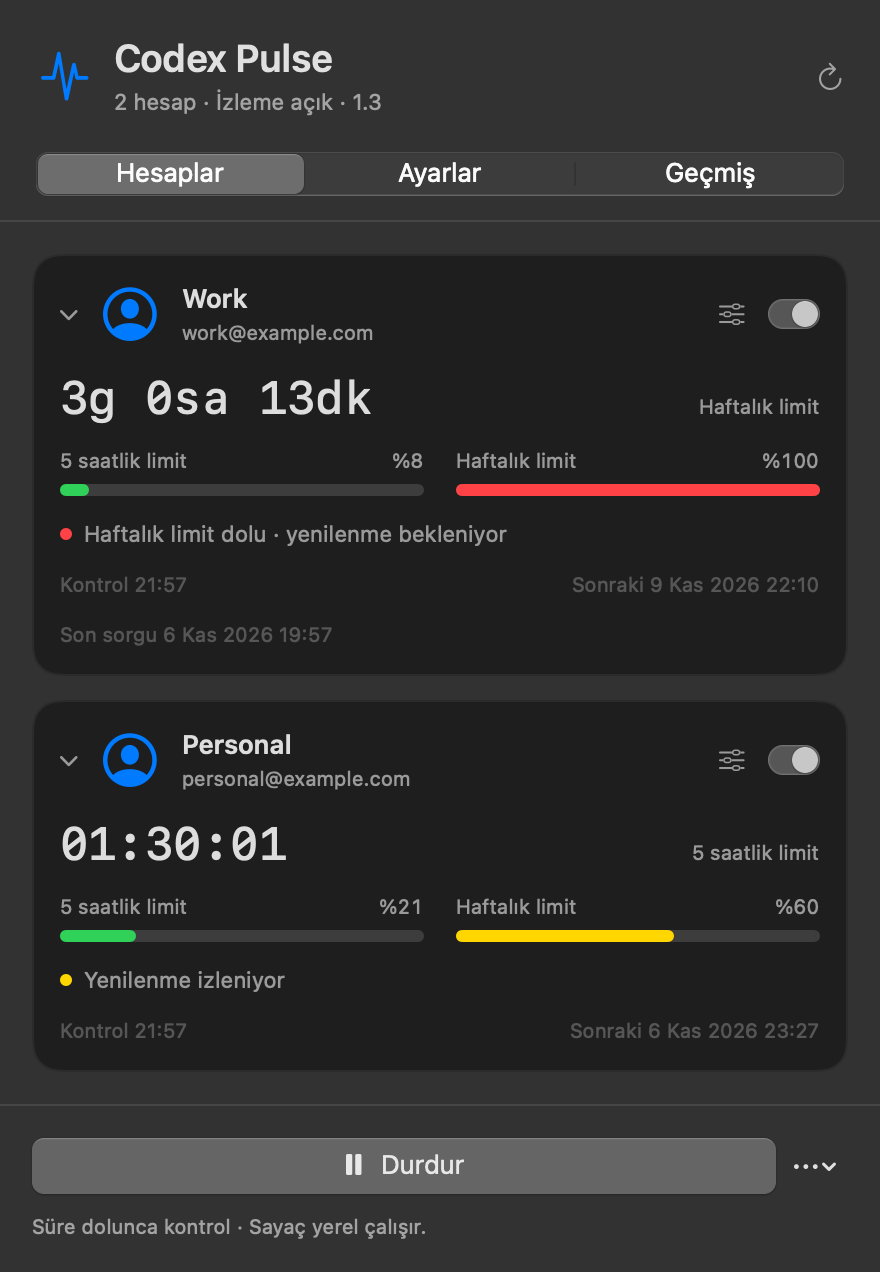
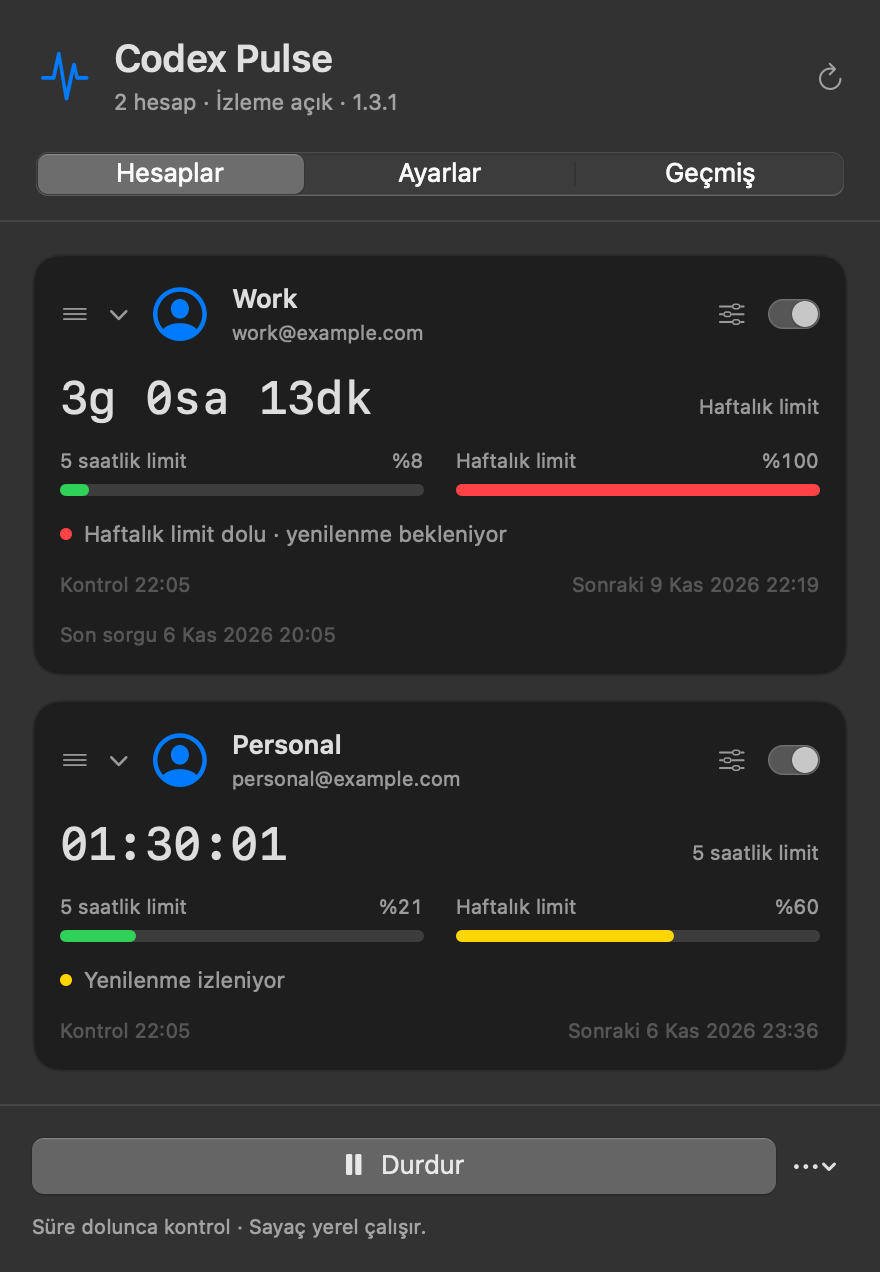
Add persistent drag-and-drop account ordering in 1.3.1

diff --git a/App.swift b/App.swift
@@ -1,5 +1,6 @@
 import AppKit
 import SwiftUI
+import UniformTypeIdentifiers
 import ServiceManagement
 import UserNotifications
 
@@ -338,6 +339,12 @@ struct AccountCard: View {
     var body: some View {
         VStack(alignment: .leading, spacing: 12) {
             HStack(spacing: 10) {
+                Image(systemName: "line.3.horizontal")
+                    .font(.system(size: 12)).foregroundStyle(.secondary)
+                    .padding(.vertical, 6).contentShape(Rectangle())
+                    .help(model.tr("Sıralamak için sürükleyin"))
+                    .onDrag { NSItemProvider(object: account.id as NSString) }
+
                 Button(action: toggleExpanded) {
                     HStack(spacing: 10) {
                         Image(systemName: "chevron.right")
@@ -687,7 +694,7 @@ struct Panel: View {
                     Image(systemName: "waveform.path.ecg").font(.system(size: 24, weight: .medium)).foregroundStyle(Color.accentColor)
                     VStack(alignment: .leading, spacing: 3) {
                         Text("Codex Pulse").font(.system(size: 19, weight: .semibold))
-                        Text(model.fmt(model.snapshot.accounts.count == 1 ? "1 hesap · {status} · {version}" : "{count} hesap · {status} · {version}", ["count": String(model.snapshot.accounts.count), "status": model.tr(model.snapshot.running ? "İzleme açık" : "Duraklatıldı"), "version": "1.3"]))
+                        Text(model.fmt(model.snapshot.accounts.count == 1 ? "1 hesap · {status} · {version}" : "{count} hesap · {status} · {version}", ["count": String(model.snapshot.accounts.count), "status": model.tr(model.snapshot.running ? "İzleme açık" : "Duraklatıldı"), "version": "1.3.1"]))
                             .font(.system(size: 11)).foregroundStyle(.secondary)
                     }
                     Spacer()
@@ -723,6 +730,19 @@ struct Panel: View {
                         ForEach(model.snapshot.accounts) { account in
                             AccountCard(model: model, account: account, expanded: expandedAccounts.contains(account.id),
                                         toggleExpanded: { toggleAccount(account.id) }, edit: { editingAccount = account })
+                                .onDrop(of: [UTType.text], isTargeted: nil) { providers in
+                                    guard let provider = providers.first,
+                                          provider.canLoadObject(ofClass: NSString.self) else { return false }
+                                    _ = provider.loadObject(ofClass: NSString.self) { value, _ in
+                                        guard let source = value as? String else { return }
+                                        DispatchQueue.main.async {
+                                            guard source != account.id,
+                                                  model.snapshot.accounts.contains(where: { $0.id == source }) else { return }
+                                            model.send("moveAccount", extra: ["id": source, "targetId": account.id])
+                                        }
+                                    }
+                                    return true
+                                }
                                 .trackPanelHeight("account-" + account.id)
                         }
                     } else if tab == 1 { GlobalSettingsView(model: model) }

diff --git a/backend.py b/backend.py
@@ -320,7 +320,7 @@ def read_account(codex, home, children, on_account=None, guard=nullcontext):
 
         try:
             request(1, 'initialize', {'clientInfo': {'name': 'codex_pulse', 'title': APP_NAME,
-                                                    'version': '1.3.0'}, 'capabilities': None})
+                                                    'version': '1.3.1'}, 'capabilities': None})
             with guard():
                 process.stdin.write('{"method":"initialized"}\n')
                 process.stdin.flush()
@@ -371,11 +371,13 @@ class Watcher:
         self.codex = codex_executable()
         self.path = state_dir / 'state.json'
         self.state = {'version': 2, 'settings': dict(DEFAULT_SETTINGS), 'profiles': {},
-                      'journal': {}, 'history': []}
+                      'journal': {}, 'history': [], 'accountOrder': []}
         if self.path.exists():
             loaded = json.loads(self.path.read_text())
             if not isinstance(loaded, dict) or not isinstance(loaded.get('journal', {}), dict):
                 raise ValueError('Yerel ayar dosyası geçersiz; işlem kaydı korunarak kontrol edilmeli.')
+            order = loaded.get('accountOrder', [])
+            self.state['accountOrder'] = list(dict.fromkeys(k for k in order if isinstance(k, str))) if isinstance(order, list) else []
             self.state['journal'] = loaded.get('journal', {})
             self.state['history'] = loaded.get('history', [])[-MAX_HISTORY:]
             # v1 boolean account switches and its custom interval are preserved.
@@ -437,10 +439,16 @@ class Watcher:
         self.accounts = {k: v for k, v in self.accounts.items() if k in valid}
         self.cached = {k: v for k, v in self.cached.items() if k in valid}
 
+    def ordered_ids(self):
+        saved = self.state['accountOrder']
+        return [key for key in saved if key in self.accounts] + [
+            key for key in self.accounts if key not in saved]
+
     def publish(self, notification=None):
         with self.lock:
             rows = []
-            for key, account in self.accounts.items():
+            for key in self.ordered_ids():
+                account = self.accounts[key]
                 pref = self.preference(key)
                 row = dict(account)
                 row['alias'] = pref.get('alias', '')
@@ -556,6 +564,16 @@ class Watcher:
                         account['error'] = None
                         account['status'] = 'İzleme kapalı'
                     self.event('settings', 'Hesap izlemeye açıldı' if pref['enabled'] else 'Hesap izleme kapatıldı', key)
+                elif action == 'moveAccount':
+                    source, target = command.get('id'), command.get('targetId')
+                    if not isinstance(source, str) or not isinstance(target, str) or source not in self.accounts or target not in self.accounts:
+                        raise ValueError('Geçersiz hesap seçimi.')
+                    order = self.ordered_ids()
+                    destination = order.index(target)
+                    order.remove(source)
+                    order.insert(destination, source)
+                    self.state['accountOrder'] = order
+                    self.save()
                 elif action == 'clearHistory':
                     self.state['history'] = []  # Never clear the at-most-once journal.
                     self.save()

diff --git a/tests/test_backend.py b/tests/test_backend.py
@@ -236,6 +236,33 @@ class AdvancedFeatureTests(unittest.TestCase):
             watcher = pulse.Watcher(profiles, state, events.append, force_paused=force_paused)
         return watcher, events
 
+    def test_reorder_persists_in_both_directions_and_appends_new_accounts(self):
+        with tempfile.TemporaryDirectory() as folder:
+            watcher, events = self.make_watcher(folder)
+            for name in ('account-second', 'account-third'):
+                home = watcher.root / name
+                home.mkdir()
+                (home / 'auth.json').write_text('{}')
+            watcher.rescan()
+            with patch.object(pulse, 'read_account') as read, patch.object(pulse, 'send_prompt') as send:
+                watcher.command({'action': 'moveAccount', 'id': 'account-test', 'targetId': 'account-third'})
+                self.assertEqual([r['id'] for r in events[-1]['accounts']], ['account-second', 'account-third', 'account-test'])
+                watcher.command({'action': 'moveAccount', 'id': 'account-test', 'targetId': 'account-second'})
+                self.assertEqual(watcher.ordered_ids(), ['account-test', 'account-second', 'account-third'])
+                read.assert_not_called()
+                send.assert_not_called()
+            reopened, _ = self.make_watcher(folder)
+            self.assertEqual(reopened.ordered_ids(), watcher.ordered_ids())
+            home = watcher.root / 'account-new'
+            home.mkdir()
+            (home / 'auth.json').write_text('{}')
+            reopened.rescan()
+            self.assertEqual(reopened.ordered_ids()[-1], 'account-new')
+            before = reopened.ordered_ids()
+            reopened.command({'action': 'moveAccount', 'id': 'missing', 'targetId': 'account-test'})
+            self.assertIsNotNone(reopened.command_error)
+            self.assertEqual(reopened.ordered_ids(), before)
+
     def test_default_home_is_discovered_and_used_for_status(self):
         with tempfile.TemporaryDirectory() as folder:
             root = Path(folder)

diff --git a/KULLANIM.md b/KULLANIM.md
@@ -1,5 +1,7 @@
 # Codex Pulse 1.3
 
+Hesap başlığının solundaki tutamacı başka bir hesabın üzerine sürükleyerek sırasını değiştirin. Sıralama bu Mac’te kaydedilir.
+
 `~/.codex` altındaki varsayılan oturum da listelenir. Haftalık kullanım %100 olduğunda sayaçlar haftalık yenilenmeyi gösterir. Kullanım %0–49 yeşil, %50–99 sarı, %100 ve üzerinde kırmızıdır.
 
 Mac menü çubuğunda Monocode Codex hesaplarını ayrı ayrı gösteren yerel uygulama.
@@ -110,7 +112,7 @@ Monocode’un seçili hesabını değiştirmez.
 
 ## Arkadaşına gönderme
 
-Paylaşım dosyası: **Codex-Pulse-1.3.0-universal.dmg**.
+Paylaşım dosyası: **Codex-Pulse-1.3.1-universal.dmg**.
 İçindeki `Codex Pulse.app` uygulamasını `Applications` klasörüne sürükleyin.
 Yönetici yetkisi olmadan kişisel `~/Applications` klasörüne de kopyalanabilir.
 DMG açıkken çalıştırmak yerine önce uygulamayı kopyalayın.
@@ -136,7 +138,7 @@ Uygulama yerel/ad-hoc imzalıdır; Apple Developer ID veya noter onayı yoktur.
 DMG yapmak bunu değiştirmez; başka Mac’te macOS açılışı engelleyebilir.
 Dağıtım için noter onayı ayrıca Apple geliştirici hesabı ve imzalama gerektirir.
 
-**Codex-Pulse-1.3.0-source.zip** kaynak kodunun bağımsız kopyasıdır. İstediğiniz klasöre
+**Codex-Pulse-1.3.1-source.zip** kaynak kodunun bağımsız kopyasıdır. İstediğiniz klasöre
 çıkarıp geliştirebilirsiniz; e-ticaret projesinin Node/Prisma dosyalarına ihtiyaç duymaz.
 
 ## Geliştirme ve doğrulama

diff --git a/README.md b/README.md
@@ -1,5 +1,7 @@
 # Codex Pulse
 
+Drag the handle on an account onto another account to reorder it. Your order is saved on this Mac.
+
 A macOS menu bar companion for **Monocode's Codex accounts**. See usage windows,
 follow their reset times, and optionally send one short prompt after Codex confirms
 that usage is available again.
@@ -13,7 +15,11 @@ that usage is available again.
 
 <sub>Weekly limit full: countdown to the weekly reset. All screenshots use sample accounts.</sub>
 
-## What's new in 1.3.0
+## What's new in 1.3.1
+
+- Drag account handles onto another account to reorder them; the order persists across restarts.
+
+## Included from 1.3.0
 
 - Discover the default signed-in account in `~/.codex` alongside Monocode profiles.
 - Show the weekly reset countdown when the weekly limit is full, including collapsed rows and the menu bar.
@@ -45,7 +51,7 @@ starts a new usage window. Automation is off by default.
 
 ## Install
 
-1. Download `Codex-Pulse-1.3.0-universal.dmg` from [Releases](https://github.com/erhanyigiter/Codex-Pulse/releases).
+1. Download `Codex-Pulse-1.3.1-universal.dmg` from [Releases](https://github.com/erhanyigiter/Codex-Pulse/releases).
 2. Copy **Codex Pulse.app** to Applications, or to your personal `~/Applications` folder.
 3. Open the copied app and click the waveform icon in the menu bar.
 4. Review **Settings**, save your choices, then click **Start / Başlat**.

diff --git a/USAGE.md b/USAGE.md
@@ -1,5 +1,7 @@
 # Codex Pulse 1.3
 
+Drag the handle on an account onto another account to reorder it. Your order is saved on this Mac.
+
 The default signed-in account in `~/.codex` is also discovered. When weekly usage reaches 100%, countdowns show the weekly reset. Usage colors are green below 50%, yellow from 50% to 99%, and red at 100%.
 
 A local macOS menu bar companion for your Monocode Codex profiles.
